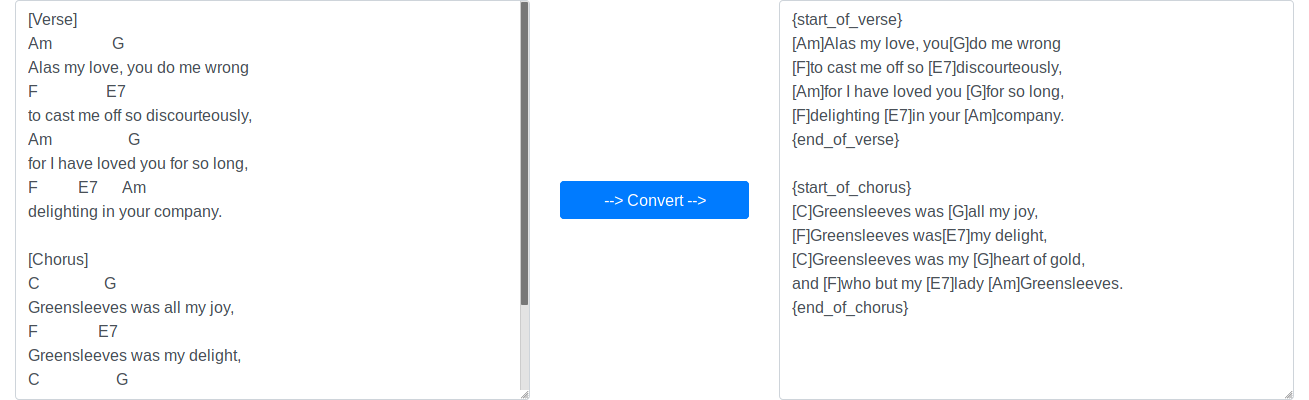
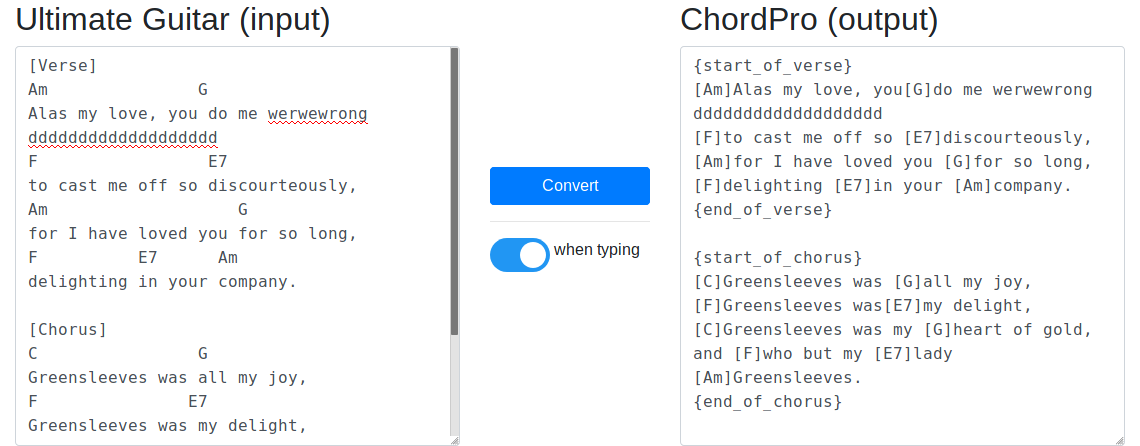
:sparkles: Add fork ribbon and auto-convert

diff --git a/dist/index.html b/dist/index.html
@@ -1,28 +1,24 @@
 <!DOCTYPE html>
 <html>
   <head>
-    <title>Getting Started</title>
+    <title>Ultimate Guitar to ChordPro</title>
     <link
       rel="stylesheet"
       href="https://maxcdn.bootstrapcdn.com/bootstrap/4.0.0/css/bootstrap.min.css"
       integrity="sha384-Gn5384xqQ1aoWXA+058RXPxPg6fy4IWvTNh0E263XmFcJlSAwiGgFAW/dAiS6JXm"
       crossorigin="anonymous"
     />
-    <style>
-      textarea {
-        height: 400px;
-      }
-      .vertical-center {
-        margin-top: auto;
-        margin-bottom: auto;
-      }
-    </style>
+    <link
+      rel="stylesheet"
+      href="https://cdnjs.cloudflare.com/ajax/libs/github-fork-ribbon-css/0.2.3/gh-fork-ribbon.min.css"
+    />
   </head>
   <body>
-    <div class="row">
-      <div class="col-md-5">
-        <h2>Ultimate Guitar (input)</h2>
-        <textarea id="ultimate" class="form-control">
+    <div class="container">
+      <div class="row">
+        <div class="col-md-5">
+          <h2>Ultimate Guitar (input)</h2>
+          <textarea id="ultimate" class="form-control">
 [Verse]
 Am               G
 Alas my love, you do me wrong
@@ -43,18 +39,32 @@ Greensleeves was my heart of gold,
     F          E7   Am
 and who but my lady Greensleeves.
         </textarea>
-      </div>
-      <div class="col-md-2 vertical-center">
-        <button id="convert" type="button" class="btn btn-primary w-100">
-          --> Convert -->
-        </button>
-      </div>
-      <div class="col-md-5">
-        <h2>ChordPro (output)</h2>
-        <textarea id="chordpro" class="form-control"></textarea>
+        </div>
+        <div class="col-md-2 vertical-center">
+          <button id="convert" type="button" class="btn btn-primary w-100">
+            Convert
+          </button>
+          <hr/>
+          <label class="switch">
+            <input type="checkbox" id="toggle" checked="true">
+            <span class="slider round"/>
+          </label>
+          when typing
+        </div>
+        <div class="col-md-5">
+          <h2>ChordPro (output)</h2>
+          <textarea id="chordpro" class="form-control"></textarea>
+        </div>
       </div>
     </div>
 
+    <a
+      class="github-fork-ribbon right-bottom fixed"
+      href="https://github.com/ftes/ultimate-to-chordpro"
+      data-ribbon="Fork me on GitHub"
+      title="Fork me on GitHub"
+      >Fork me on GitHub</a
+    >
     <script src="main.js"></script>
   </body>
 </html>

diff --git a/src/index.js b/src/index.js
@@ -1,16 +1,29 @@
-import ChordSheetJS from '@ftes/chordsheetjs';
+import ChordSheetJS from "@ftes/chordsheetjs";
+import "./style/index.css"
 
 const parser = new ChordSheetJS.UltimateGuitarParser({
   preserveWhitespace: false
-})
-const formatter = new ChordSheetJS.ChordProFormatter()
+});
+const formatter = new ChordSheetJS.ChordProFormatter();
 
 function convert() {
-  const input = document.getElementById('ultimate').value
-  const parsed = parser.parse(input)
+  const input = document.getElementById("ultimate").value;
+  const parsed = parser.parse(input);
   const output = formatter.format(parsed);
-  document.getElementById('chordpro').value = output
+  document.getElementById("chordpro").value = output;
 }
 
-document.getElementById('convert').addEventListener('click', convert)
-convert()
+let toggleState = document.getElementById("toggle").checked;
+function setToggle(e) {
+  toggleState = e.target.checked;
+}
+function convertIfToggled() {
+  if (toggleState) {
+    convert();
+  }
+}
+
+document.getElementById("convert").addEventListener("click", convert);
+document.getElementById("toggle").addEventListener("change", setToggle);
+document.getElementById("ultimate").addEventListener("keyup", convertIfToggled);
+convert();

diff --git a/src/style/toggle.css b/src/style/toggle.css
@@ -1,0 +1,64 @@
+/* https://www.w3schools.com/howto/howto_css_switch.asp */
+/* The switch - the box around the slider */
+.switch {
+    position: relative;
+    display: inline-block;
+    width: 60px;
+    height: 34px;
+  }
+  
+  /* Hide default HTML checkbox */
+  .switch input {
+    opacity: 0;
+    width: 0;
+    height: 0;
+  }
+  
+  /* The slider */
+  .slider {
+    position: absolute;
+    cursor: pointer;
+    top: 0;
+    left: 0;
+    right: 0;
+    bottom: 0;
+    background-color: #ccc;
+    -webkit-transition: 0.4s;
+    transition: 0.4s;
+  }
+  
+  .slider:before {
+    position: absolute;
+    content: "";
+    height: 26px;
+    width: 26px;
+    left: 4px;
+    bottom: 4px;
+    background-color: white;
+    -webkit-transition: 0.4s;
+    transition: 0.4s;
+  }
+  
+  input:checked + .slider {
+    background-color: #2196f3;
+  }
+  
+  input:focus + .slider {
+    box-shadow: 0 0 1px #2196f3;
+  }
+  
+  input:checked + .slider:before {
+    -webkit-transform: translateX(26px);
+    -ms-transform: translateX(26px);
+    transform: translateX(26px);
+  }
+  
+  /* Rounded sliders */
+  .slider.round {
+    border-radius: 34px;
+  }
+  
+  .slider.round:before {
+    border-radius: 50%;
+  }
+  

diff --git a/webpack.config.js b/webpack.config.js
@@ -1,5 +1,13 @@
 module.exports = {
   devServer: {
     contentBase: "./dist"
-  }
+  },
+  module: {
+    rules: [
+      {
+        test: /\.css$/i,
+        use: ['style-loader', 'css-loader'],
+      },
+    ],
+  },
 };

diff --git a/src/style/index.css b/src/style/index.css
@@ -1,0 +1,10 @@
+@import url('toggle.css');
+
+textarea {
+  height: 400px;
+  font-family: monospace;
+}
+.vertical-center {
+  margin-top: auto;
+  margin-bottom: auto;
+}
